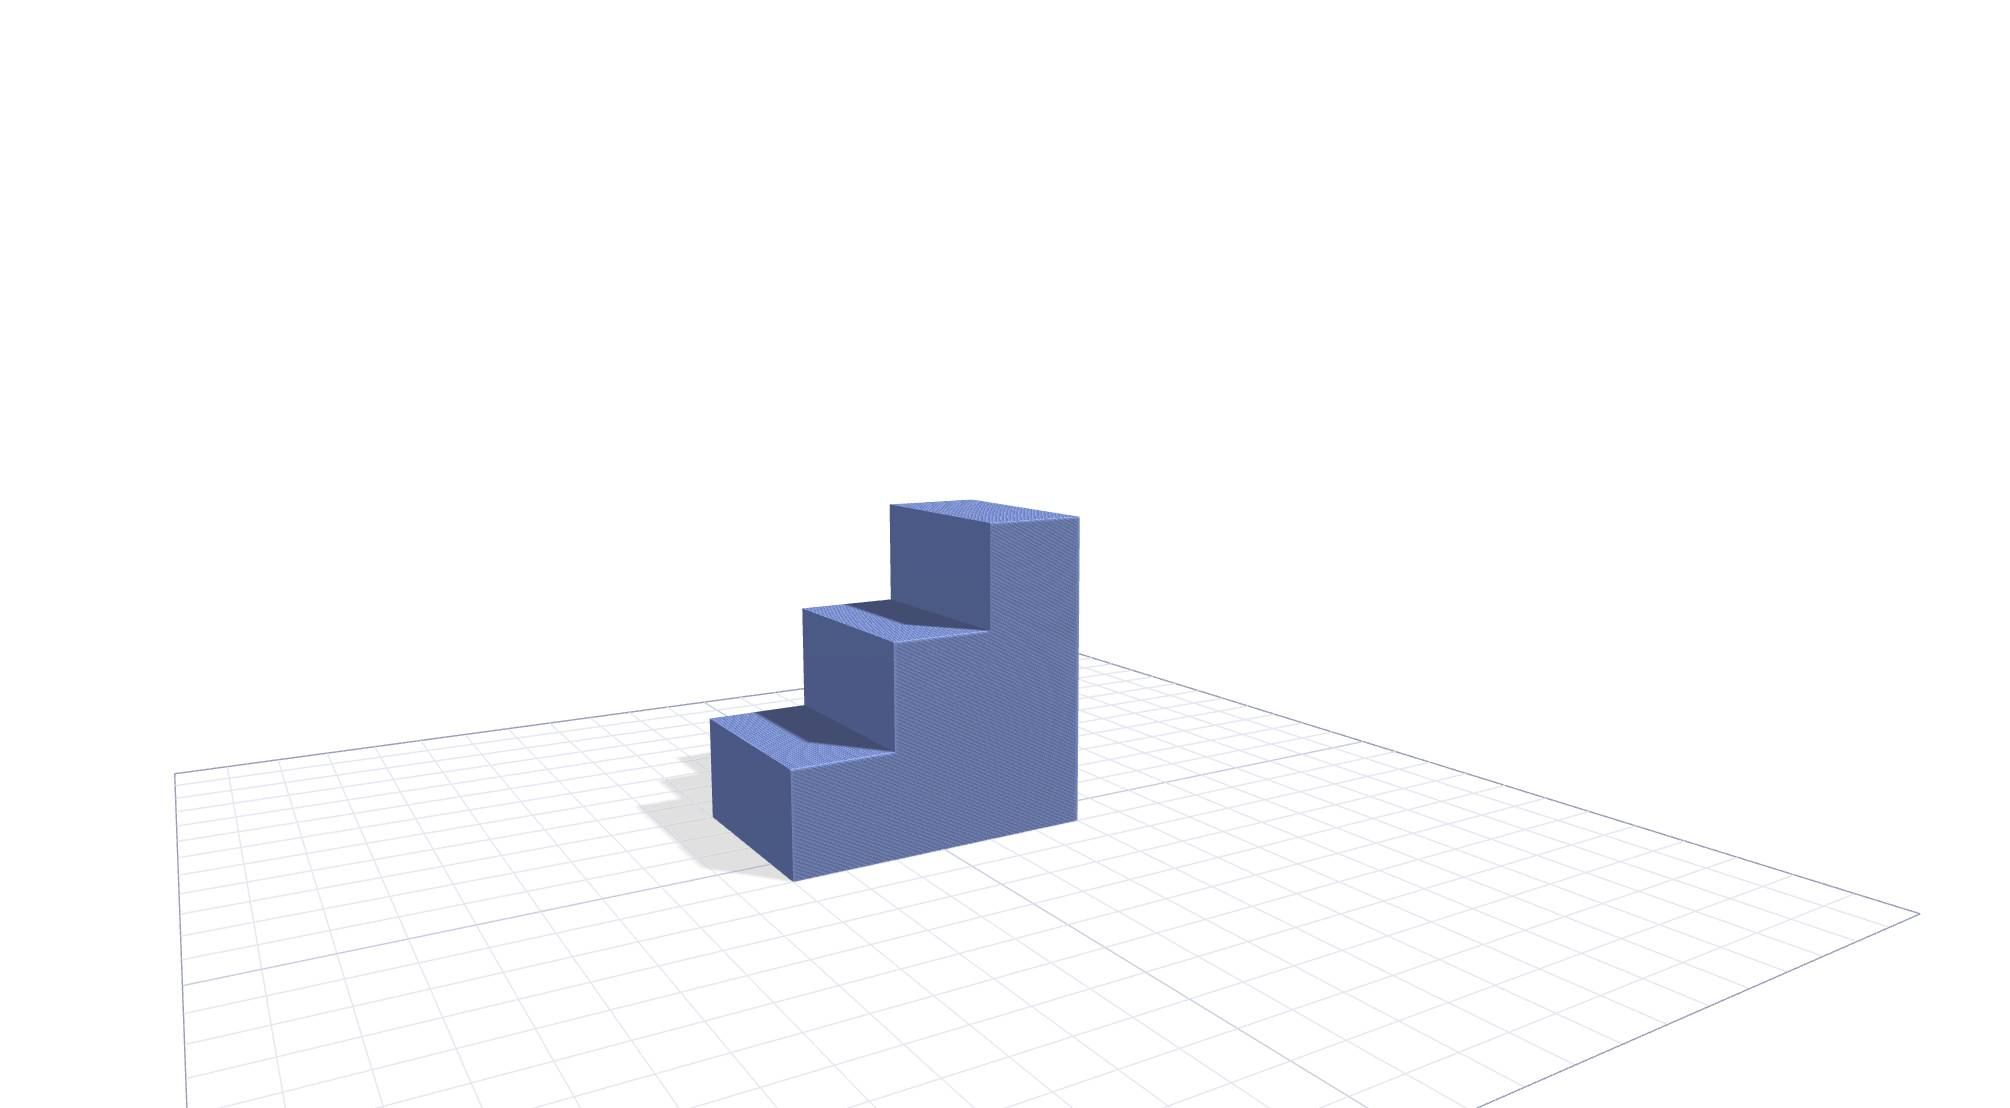
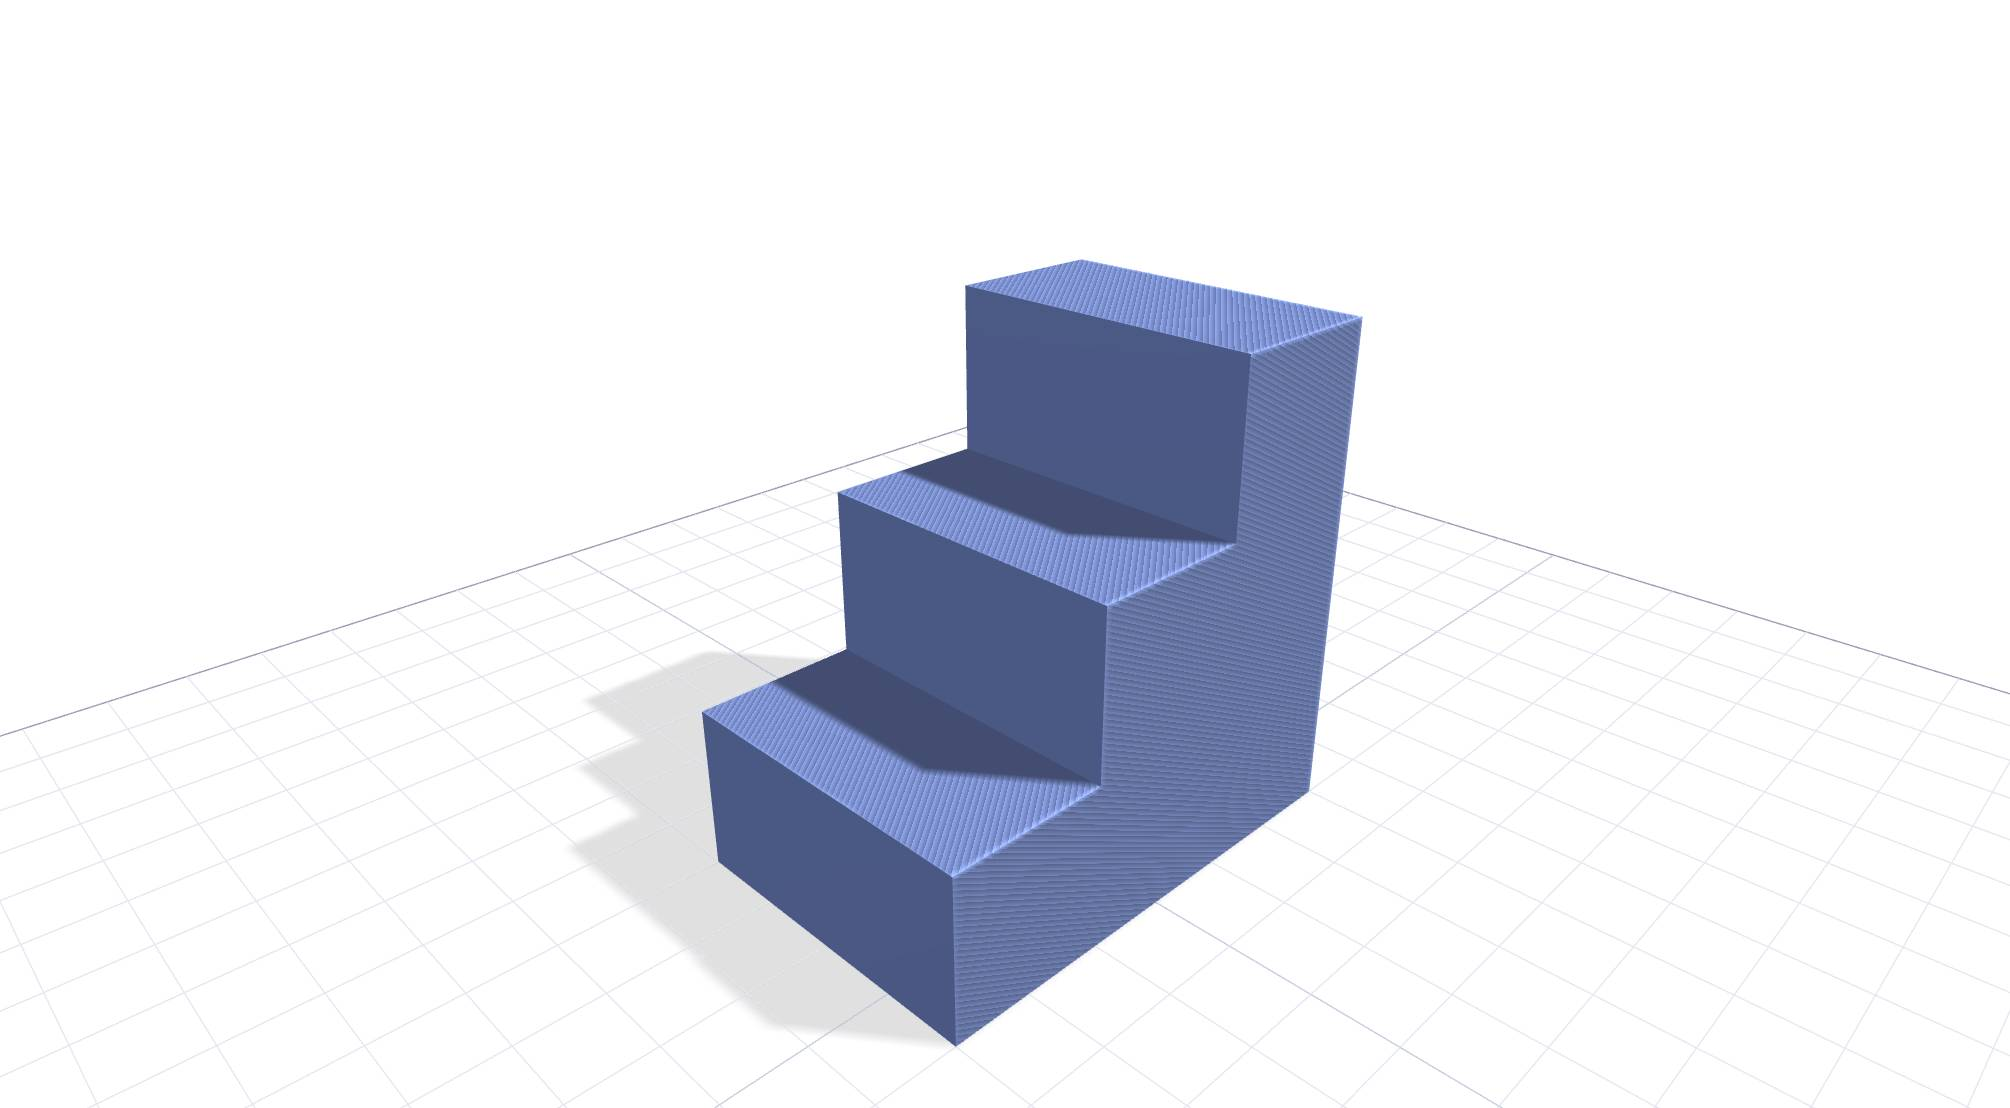
fix(stem-sketch): worksheet print quality — vector dots, contain-fit visual, home-view images
- dot fields are now inline SVG patterns (vector to the printer): tiny
  ~0.4mm SOLID BLACK dots like real drafting paper, instead of CSS
  background tiles that rasterized gray
- 3D visual uses contain fit — the new tightly-framed home-view captures
  were being clipped by the old cover+zoom
- all three challenge images refreshed with the user's home-view saves

Changed region(s): [[0.2776, 0.2148, 0.6786, 0.9513]]

diff --git a/app/tools/stem-sketch/worksheet/page.tsx b/app/tools/stem-sketch/worksheet/page.tsx
@@ -36,13 +36,24 @@ export default async function WorksheetPage({
     );
   }
 
-  const dotSpacing = challenge.precision === "eighth" ? "0.125in" : "0.25in";
-  const DOTS: React.CSSProperties = {
-    backgroundImage: "radial-gradient(circle, #8f8f8f 1px, transparent 1.5px)",
-    backgroundSize: `${dotSpacing} ${dotSpacing}`,
-    backgroundPosition: "0.02in 0.02in",
-    position: "relative",
-  };
+  // Dot fields are INLINE SVG patterns, not CSS background tiles: backgrounds
+  // get rasterized at screen resolution before printing (tiny black circles
+  // smear into gray), while inline SVG stays vector all the way to the
+  // printer — tiny but SOLID BLACK dots, like real drafting dot-grid paper.
+  // 96 SVG user units = 1in. Spacing: quarter-inch (24u), eighth for
+  // eighth-precision challenges (12u). r=0.8u ≈ 0.42 mm dot diameter.
+  const dotStep = challenge.precision === "eighth" ? 12 : 24;
+  const DotField = ({ id }: { id: string }) => (
+    <svg width="100%" height="100%" style={{ display: "block", position: "absolute", inset: 0 }}>
+      <defs>
+        <pattern id={id} patternUnits="userSpaceOnUse" width={dotStep} height={dotStep}>
+          <circle cx={dotStep / 2} cy={dotStep / 2} r="0.8" fill="#000" />
+        </pattern>
+      </defs>
+      <rect width="100%" height="100%" fill={`url(#${id})`} />
+    </svg>
+  );
+  const DOTS: React.CSSProperties = { position: "relative" };
   const FIELD_LABEL: React.CSSProperties = {
     position: "absolute", top: "-0.22in", left: 0,
     fontSize: "8pt", fontWeight: 800, letterSpacing: "0.6px",
@@ -81,6 +92,7 @@ export default async function WorksheetPage({
           width: "11in", height: "8.5in", margin: "0 auto 30px", background: "#fff",
           boxShadow: "0 6px 30px rgba(0,0,0,0.25)", padding: "0.3in",
           boxSizing: "border-box", color: "#333",
+          WebkitPrintColorAdjust: "exact", printColorAdjust: "exact",
         }}>
         {/* Single continuous border around the whole sheet */}
         <div style={{
@@ -96,9 +108,11 @@ export default async function WorksheetPage({
             {/* TOP view field */}
             <div style={DOTS}>
               <span style={FIELD_LABEL}>Top view</span>
+              <DotField id="dots-top" />
             </div>
-            {/* 3D visual fills the top-right void — zoomed so the block itself
-                reads large (the source renders carry a lot of whitespace). */}
+            {/* 3D visual fills the top-right void. The capture thumbnails are
+                already framed tight (home view, user-zoomed at save time), so
+                contain — never crop or clip the block. */}
             <div style={{ overflow: "hidden", display: "flex", alignItems: "center", justifyContent: "center" }}>
               {challenge.imagePath && (
                 // eslint-disable-next-line @next/next/no-img-element
@@ -106,8 +120,7 @@ export default async function WorksheetPage({
                   src={challenge.imagePath}
                   alt={`${challenge.title} reference`}
                   style={{
-                    width: "100%", height: "100%", objectFit: "cover", objectPosition: "50% 58%",
-                    transform: "scale(1.55)",
+                    width: "100%", height: "100%", objectFit: "contain", objectPosition: "center",
                     filter: "grayscale(1) brightness(1.08)",
                   }}
                 />
@@ -116,10 +129,12 @@ export default async function WorksheetPage({
             {/* FRONT view field */}
             <div style={DOTS}>
               <span style={FIELD_LABEL}>Front view — the face with the word FRONT</span>
+              <DotField id="dots-front" />
             </div>
             {/* RIGHT SIDE view field */}
             <div style={DOTS}>
               <span style={FIELD_LABEL}>Right side view</span>
+              <DotField id="dots-right" />
             </div>
           </div>
 
